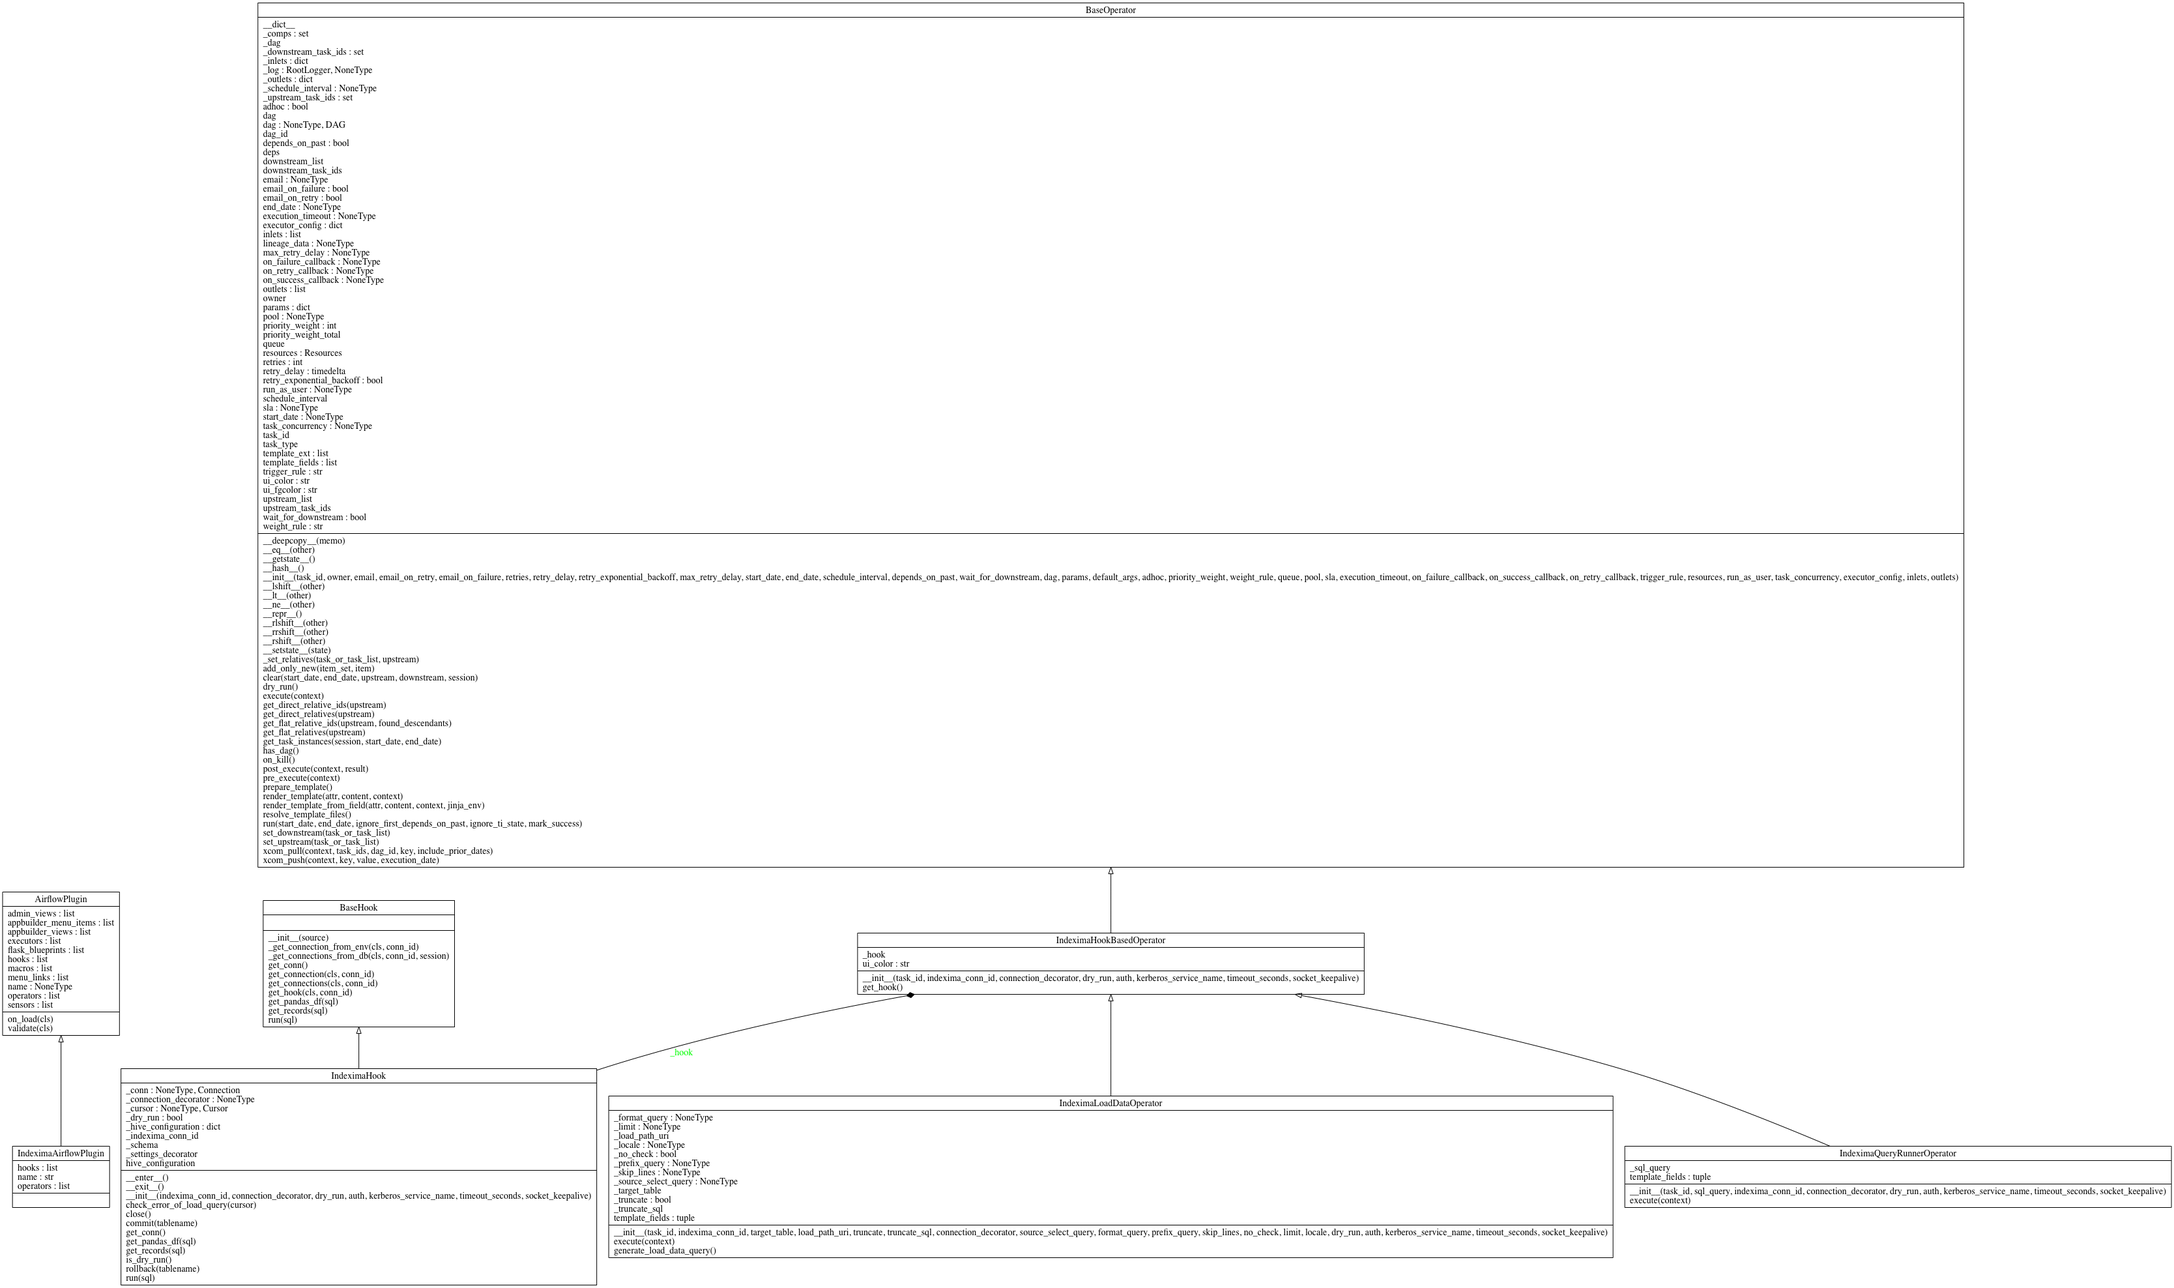
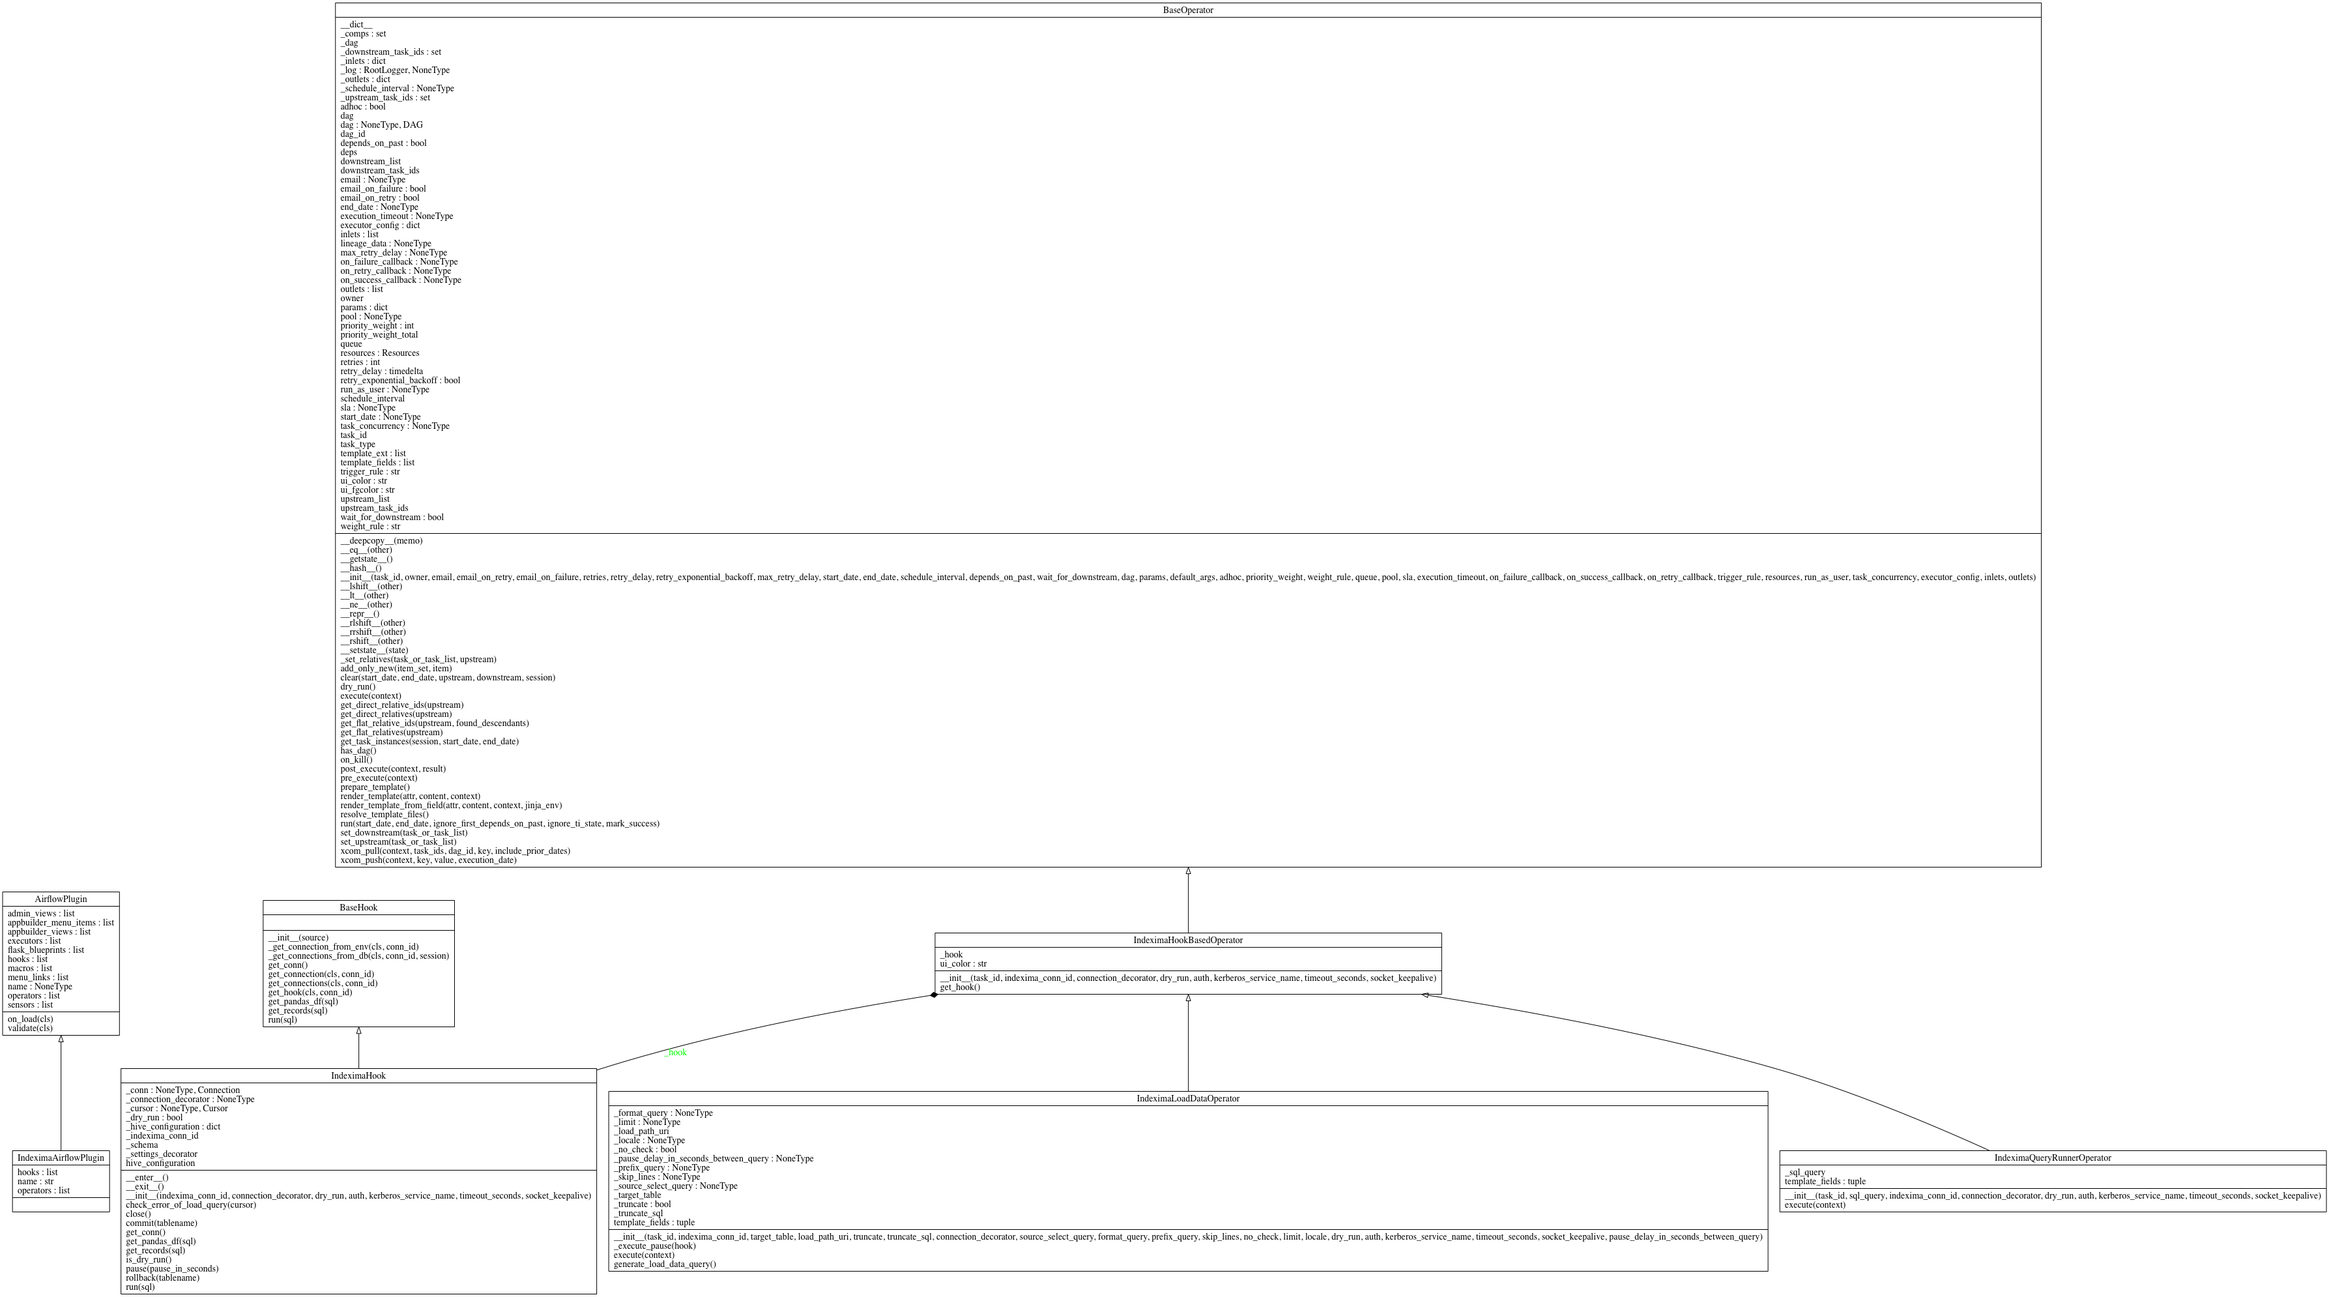
update docs

diff --git a/docs/api/operators/index.html b/docs/api/operators/index.html
@@ -712,7 +712,7 @@ Execute sql query.</p>
 <li><strong>context</strong>: dag context</li>
 </ul>
 <h2 id="indeximaloaddataoperator">IndeximaLoadDataOperator<a class="headerlink" href="#indeximaloaddataoperator" title="Permanent link">&para;</a></h2>
-<p><div class="codehilite"><pre><span></span><span class="n">IndeximaLoadDataOperator</span><span class="p">(</span><span class="bp">self</span><span class="p">,</span> <span class="n">task_id</span><span class="p">:</span><span class="nb">str</span><span class="p">,</span> <span class="n">indexima_conn_id</span><span class="p">:</span><span class="nb">str</span><span class="p">,</span> <span class="n">target_table</span><span class="p">:</span><span class="nb">str</span><span class="p">,</span> <span class="n">load_path_uri</span><span class="p">:</span><span class="nb">str</span><span class="p">,</span> <span class="n">truncate</span><span class="p">:</span><span class="nb">bool</span><span class="o">=</span><span class="kc">False</span><span class="p">,</span> <span class="n">truncate_sql</span><span class="p">:</span><span class="n">Union</span><span class="p">[</span><span class="nb">str</span><span class="p">,</span> <span class="n">NoneType</span><span class="p">]</span><span class="o">=</span><span class="kc">None</span><span class="p">,</span> <span class="n">connection_decorator</span><span class="p">:</span><span class="n">Union</span><span class="p">[</span><span class="n">Callable</span><span class="p">[[</span><span class="n">airflow</span><span class="o">.</span><span class="n">models</span><span class="o">.</span><span class="n">Connection</span><span class="p">],</span> <span class="n">airflow</span><span class="o">.</span><span class="n">models</span><span class="o">.</span><span class="n">Connection</span><span class="p">],</span> <span class="n">NoneType</span><span class="p">]</span><span class="o">=</span><span class="kc">None</span><span class="p">,</span> <span class="n">source_select_query</span><span class="p">:</span><span class="n">Union</span><span class="p">[</span><span class="nb">str</span><span class="p">,</span> <span class="n">NoneType</span><span class="p">]</span><span class="o">=</span><span class="kc">None</span><span class="p">,</span> <span class="n">format_query</span><span class="p">:</span><span class="n">Union</span><span class="p">[</span><span class="nb">str</span><span class="p">,</span> <span class="n">NoneType</span><span class="p">]</span><span class="o">=</span><span class="kc">None</span><span class="p">,</span> <span class="n">prefix_query</span><span class="p">:</span><span class="n">Union</span><span class="p">[</span><span class="nb">str</span><span class="p">,</span> <span class="n">NoneType</span><span class="p">]</span><span class="o">=</span><span class="kc">None</span><span class="p">,</span> <span class="n">skip_lines</span><span class="p">:</span><span class="n">Union</span><span class="p">[</span><span class="nb">int</span><span class="p">,</span> <span class="n">NoneType</span><span class="p">]</span><span class="o">=</span><span class="kc">None</span><span class="p">,</span> <span class="n">no_check</span><span class="p">:</span><span class="n">Union</span><span class="p">[</span><span class="nb">bool</span><span class="p">,</span> <span class="n">NoneType</span><span class="p">]</span><span class="o">=</span><span class="kc">False</span><span class="p">,</span> <span class="n">limit</span><span class="p">:</span><span class="n">Union</span><span class="p">[</span><span class="nb">int</span><span class="p">,</span> <span class="n">NoneType</span><span class="p">]</span><span class="o">=</span><span class="kc">None</span><span class="p">,</span> <span class="n">locale</span><span class="p">:</span><span class="n">Union</span><span class="p">[</span><span class="nb">str</span><span class="p">,</span> <span class="n">NoneType</span><span class="p">]</span><span class="o">=</span><span class="kc">None</span><span class="p">,</span> <span class="n">dry_run</span><span class="p">:</span><span class="n">Union</span><span class="p">[</span><span class="nb">bool</span><span class="p">,</span> <span class="n">NoneType</span><span class="p">]</span><span class="o">=</span><span class="kc">False</span><span class="p">,</span> <span class="n">auth</span><span class="p">:</span><span class="n">Union</span><span class="p">[</span><span class="nb">str</span><span class="p">,</span> <span class="n">NoneType</span><span class="p">]</span><span class="o">=</span><span class="kc">None</span><span class="p">,</span> <span class="n">kerberos_service_name</span><span class="p">:</span><span class="n">Union</span><span class="p">[</span><span class="nb">str</span><span class="p">,</span> <span class="n">NoneType</span><span class="p">]</span><span class="o">=</span><span class="kc">None</span><span class="p">,</span> <span class="n">timeout_seconds</span><span class="p">:</span><span class="n">Union</span><span class="p">[</span><span class="nb">int</span><span class="p">,</span> <span class="n">datetime</span><span class="o">.</span><span class="n">timedelta</span><span class="p">,</span> <span class="n">NoneType</span><span class="p">]</span><span class="o">=</span><span class="kc">None</span><span class="p">,</span> <span class="n">socket_keepalive</span><span class="p">:</span><span class="n">Union</span><span class="p">[</span><span class="nb">bool</span><span class="p">,</span> <span class="n">NoneType</span><span class="p">]</span><span class="o">=</span><span class="kc">None</span><span class="p">,</span> <span class="o">*</span><span class="n">args</span><span class="p">,</span> <span class="o">**</span><span class="n">kwargs</span><span class="p">)</span>
+<p><div class="codehilite"><pre><span></span><span class="n">IndeximaLoadDataOperator</span><span class="p">(</span><span class="bp">self</span><span class="p">,</span> <span class="n">task_id</span><span class="p">:</span><span class="nb">str</span><span class="p">,</span> <span class="n">indexima_conn_id</span><span class="p">:</span><span class="nb">str</span><span class="p">,</span> <span class="n">target_table</span><span class="p">:</span><span class="nb">str</span><span class="p">,</span> <span class="n">load_path_uri</span><span class="p">:</span><span class="nb">str</span><span class="p">,</span> <span class="n">truncate</span><span class="p">:</span><span class="nb">bool</span><span class="o">=</span><span class="kc">False</span><span class="p">,</span> <span class="n">truncate_sql</span><span class="p">:</span><span class="n">Union</span><span class="p">[</span><span class="nb">str</span><span class="p">,</span> <span class="n">NoneType</span><span class="p">]</span><span class="o">=</span><span class="kc">None</span><span class="p">,</span> <span class="n">connection_decorator</span><span class="p">:</span><span class="n">Union</span><span class="p">[</span><span class="n">Callable</span><span class="p">[[</span><span class="n">airflow</span><span class="o">.</span><span class="n">models</span><span class="o">.</span><span class="n">Connection</span><span class="p">],</span> <span class="n">airflow</span><span class="o">.</span><span class="n">models</span><span class="o">.</span><span class="n">Connection</span><span class="p">],</span> <span class="n">NoneType</span><span class="p">]</span><span class="o">=</span><span class="kc">None</span><span class="p">,</span> <span class="n">source_select_query</span><span class="p">:</span><span class="n">Union</span><span class="p">[</span><span class="nb">str</span><span class="p">,</span> <span class="n">NoneType</span><span class="p">]</span><span class="o">=</span><span class="kc">None</span><span class="p">,</span> <span class="n">format_query</span><span class="p">:</span><span class="n">Union</span><span class="p">[</span><span class="nb">str</span><span class="p">,</span> <span class="n">NoneType</span><span class="p">]</span><span class="o">=</span><span class="kc">None</span><span class="p">,</span> <span class="n">prefix_query</span><span class="p">:</span><span class="n">Union</span><span class="p">[</span><span class="nb">str</span><span class="p">,</span> <span class="n">NoneType</span><span class="p">]</span><span class="o">=</span><span class="kc">None</span><span class="p">,</span> <span class="n">skip_lines</span><span class="p">:</span><span class="n">Union</span><span class="p">[</span><span class="nb">int</span><span class="p">,</span> <span class="n">NoneType</span><span class="p">]</span><span class="o">=</span><span class="kc">None</span><span class="p">,</span> <span class="n">no_check</span><span class="p">:</span><span class="n">Union</span><span class="p">[</span><span class="nb">bool</span><span class="p">,</span> <span class="n">NoneType</span><span class="p">]</span><span class="o">=</span><span class="kc">False</span><span class="p">,</span> <span class="n">limit</span><span class="p">:</span><span class="n">Union</span><span class="p">[</span><span class="nb">int</span><span class="p">,</span> <span class="n">NoneType</span><span class="p">]</span><span class="o">=</span><span class="kc">None</span><span class="p">,</span> <span class="n">locale</span><span class="p">:</span><span class="n">Union</span><span class="p">[</span><span class="nb">str</span><span class="p">,</span> <span class="n">NoneType</span><span class="p">]</span><span class="o">=</span><span class="kc">None</span><span class="p">,</span> <span class="n">dry_run</span><span class="p">:</span><span class="n">Union</span><span class="p">[</span><span class="nb">bool</span><span class="p">,</span> <span class="n">NoneType</span><span class="p">]</span><span class="o">=</span><span class="kc">False</span><span class="p">,</span> <span class="n">auth</span><span class="p">:</span><span class="n">Union</span><span class="p">[</span><span class="nb">str</span><span class="p">,</span> <span class="n">NoneType</span><span class="p">]</span><span class="o">=</span><span class="kc">None</span><span class="p">,</span> <span class="n">kerberos_service_name</span><span class="p">:</span><span class="n">Union</span><span class="p">[</span><span class="nb">str</span><span class="p">,</span> <span class="n">NoneType</span><span class="p">]</span><span class="o">=</span><span class="kc">None</span><span class="p">,</span> <span class="n">timeout_seconds</span><span class="p">:</span><span class="n">Union</span><span class="p">[</span><span class="nb">int</span><span class="p">,</span> <span class="n">datetime</span><span class="o">.</span><span class="n">timedelta</span><span class="p">,</span> <span class="n">NoneType</span><span class="p">]</span><span class="o">=</span><span class="kc">None</span><span class="p">,</span> <span class="n">socket_keepalive</span><span class="p">:</span><span class="n">Union</span><span class="p">[</span><span class="nb">bool</span><span class="p">,</span> <span class="n">NoneType</span><span class="p">]</span><span class="o">=</span><span class="kc">None</span><span class="p">,</span> <span class="n">pause_delay_in_seconds_between_query</span><span class="p">:</span><span class="n">Union</span><span class="p">[</span><span class="nb">int</span><span class="p">,</span> <span class="n">NoneType</span><span class="p">]</span><span class="o">=</span><span class="kc">None</span><span class="p">,</span> <span class="o">*</span><span class="n">args</span><span class="p">,</span> <span class="o">**</span><span class="n">kwargs</span><span class="p">)</span>
 </pre></div>
 Indexima load data operator.</p>
 <p>Operations:</p>
@@ -723,8 +723,9 @@ Indexima load data operator.</p>
 
 
 <p>All fields ('target_table', 'load_path_uri', 'source_select_query', 'truncate_sql',
-'format_query', 'prefix_query', 'skip_lines', 'no_check', 'limit', 'locale') support airflow macro.</p>
-<p>Syntax (see <a href="https://indexima.com/support/doc/v.1.6/Load_Data/Load_Data_Inpath.html">https://indexima.com/support/doc/v.1.6/Load_Data/Load_Data_Inpath.html</a>)
+'format_query', 'prefix_query', 'skip_lines', 'no_check', 'limit', 'locale',
+'pause_delay_in_seconds_between_query' ) support airflow macro.</p>
+<p>Syntax (see <a href="https://indexima.com/support/doc/v.1.7/Load_Data/Load_Data_Inpath.html">https://indexima.com/support/doc/v.1.7/Load_Data/Load_Data_Inpath.html</a>)
 <div class="codehilite"><pre><span></span><span class="k">LOAD</span> <span class="k">DATA</span> <span class="n">INPATH</span> <span class="s1">&#39;path_of_the_data_source&#39;</span>
 <span class="k">INTO</span> <span class="k">TABLE</span> <span class="n">my_data_space</span>
 <span class="p">[</span><span class="n">FORMAT</span> <span class="s1">&#39;separator&#39;</span> <span class="o">/</span> <span class="n">ORC</span> <span class="o">/</span> <span class="n">PARQUET</span> <span class="o">/</span> <span class="n">JSON</span><span class="p">];</span>
@@ -740,7 +741,7 @@ Indexima load data operator.</p>
 tuple(iterable) -&gt; tuple initialized from iterable's items</p>
 <p>If the argument is a tuple, the return value is the same object.</p>
 <h3 id="generate_load_data_query">generate_load_data_query<a class="headerlink" href="#generate_load_data_query" title="Permanent link">&para;</a></h3>
-<p><div class="codehilite"><pre><span></span><span class="n">IndeximaLoadDataOperator</span><span class="o">.</span><span class="n">generate_load_data_query</span><span class="p">(</span><span class="bp">self</span><span class="p">)</span>
+<p><div class="codehilite"><pre><span></span><span class="n">IndeximaLoadDataOperator</span><span class="o">.</span><span class="n">generate_load_data_query</span><span class="p">(</span><span class="bp">self</span><span class="p">)</span> <span class="o">-&gt;</span> <span class="nb">str</span>
 </pre></div>
 Generate 'load data' sql query.</p>
 <p><strong>Returns</strong></p>

diff --git a/docs/api/hooks/index.html b/docs/api/hooks/index.html
@@ -357,6 +357,13 @@
 </li>
         
           <li class="md-nav__item">
+  <a href="#pause" class="md-nav__link">
+    pause
+  </a>
+  
+</li>
+        
+          <li class="md-nav__item">
   <a href="#close" class="md-nav__link">
     close
   </a>
@@ -606,6 +613,13 @@
 </li>
         
           <li class="md-nav__item">
+  <a href="#pause" class="md-nav__link">
+    pause
+  </a>
+  
+</li>
+        
+          <li class="md-nav__item">
   <a href="#close" class="md-nav__link">
     close
   </a>
@@ -696,6 +710,14 @@ Execute a simple rollback on table.</p>
 <p><strong>Parameters</strong></p>
 <ul>
 <li><strong>tablename (str)</strong>: table name to rollback</li>
+</ul>
+<h3 id="pause">pause<a class="headerlink" href="#pause" title="Permanent link">&para;</a></h3>
+<p><div class="codehilite"><pre><span></span><span class="n">IndeximaHook</span><span class="o">.</span><span class="n">pause</span><span class="p">(</span><span class="bp">self</span><span class="p">,</span> <span class="n">pause_in_seconds</span><span class="p">:</span><span class="nb">int</span><span class="p">)</span>
+</pre></div>
+Execute a pause statement.</p>
+<p><strong>Parameters</strong></p>
+<ul>
+<li><strong>pause_in_seconds (int)</strong>: pause delay</li>
 </ul>
 <h3 id="close">close<a class="headerlink" href="#close" title="Permanent link">&para;</a></h3>
 <p><div class="codehilite"><pre><span></span><span class="n">IndeximaHook</span><span class="o">.</span><span class="n">close</span><span class="p">(</span><span class="bp">self</span><span class="p">)</span>

diff --git a/docs/changelog/index.html b/docs/changelog/index.html
@@ -91,7 +91,7 @@
     <input class="md-toggle" data-md-toggle="search" type="checkbox" id="__search" autocomplete="off">
     <label class="md-overlay" data-md-component="overlay" for="__drawer"></label>
     
-      <a href="#221-soon" tabindex="1" class="md-skip">
+      <a href="#221-2019-12-17" tabindex="1" class="md-skip">
         Skip to content
       </a>
     
@@ -467,12 +467,13 @@
                   <a href="https://github.com/geronimo-iia/airflow-indexima/edit/master/docs/changelog.md" title="Edit this page" class="md-icon md-content__icon">&#xE3C9;</a>
                 
                 
-                <h1 id="221-soon">2.2.1 (soon)<a class="headerlink" href="#221-soon" title="Permanent link">&para;</a></h1>
+                <h1 id="221-2019-12-17">2.2.1 (2019-12-17)<a class="headerlink" href="#221-2019-12-17" title="Permanent link">&para;</a></h1>
 <ul>
 <li>fix api link on readme</li>
 <li>fix readme info</li>
+<li>add optional pause between truncate/load/commit operation</li>
 </ul>
-<h1 id="220-2019-12-12">2.2.0 ((2019-12-12)<a class="headerlink" href="#220-2019-12-12" title="Permanent link">&para;</a></h1>
+<h1 id="220-2019-12-12">2.2.0 (2019-12-12)<a class="headerlink" href="#220-2019-12-12" title="Permanent link">&para;</a></h1>
 <ul>
 <li>add dry_run mode on operator</li>
 <li>refactor uri module (simplier code)</li>
